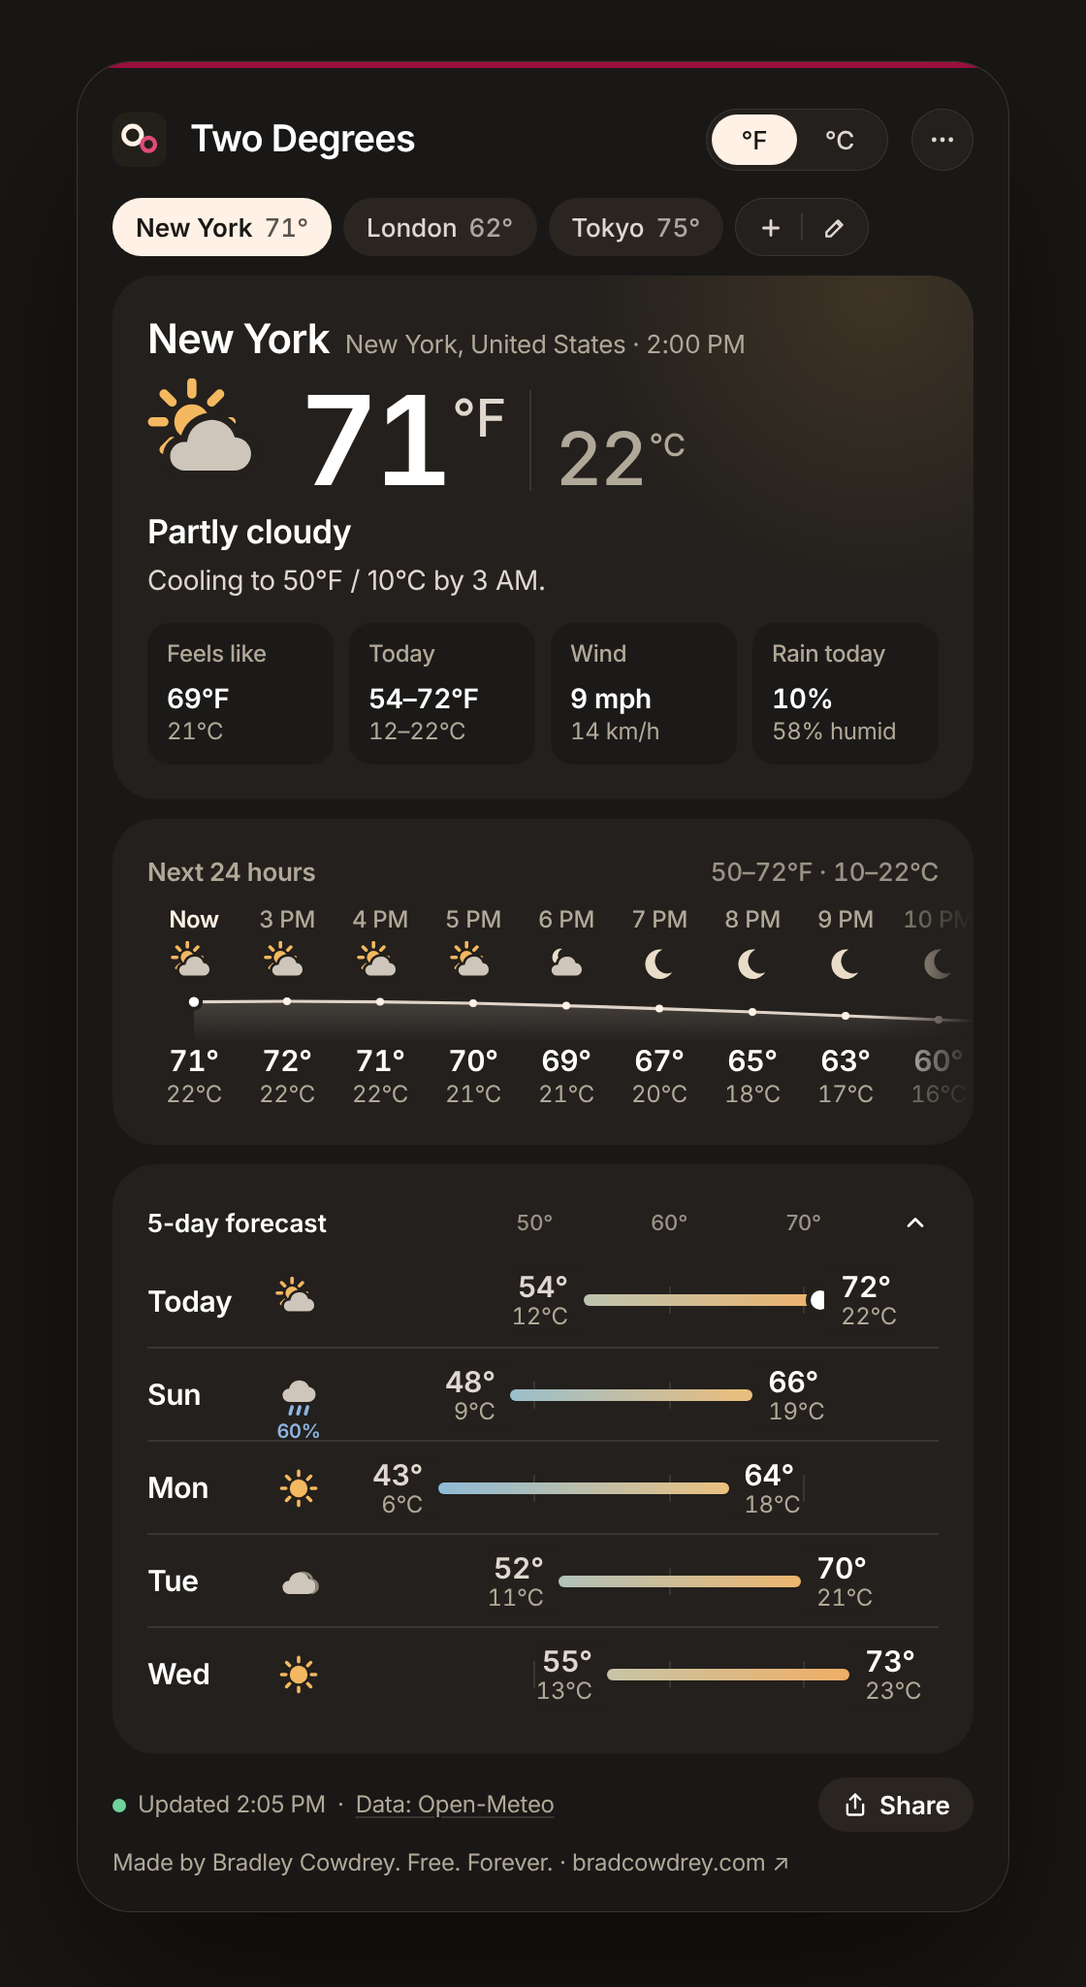
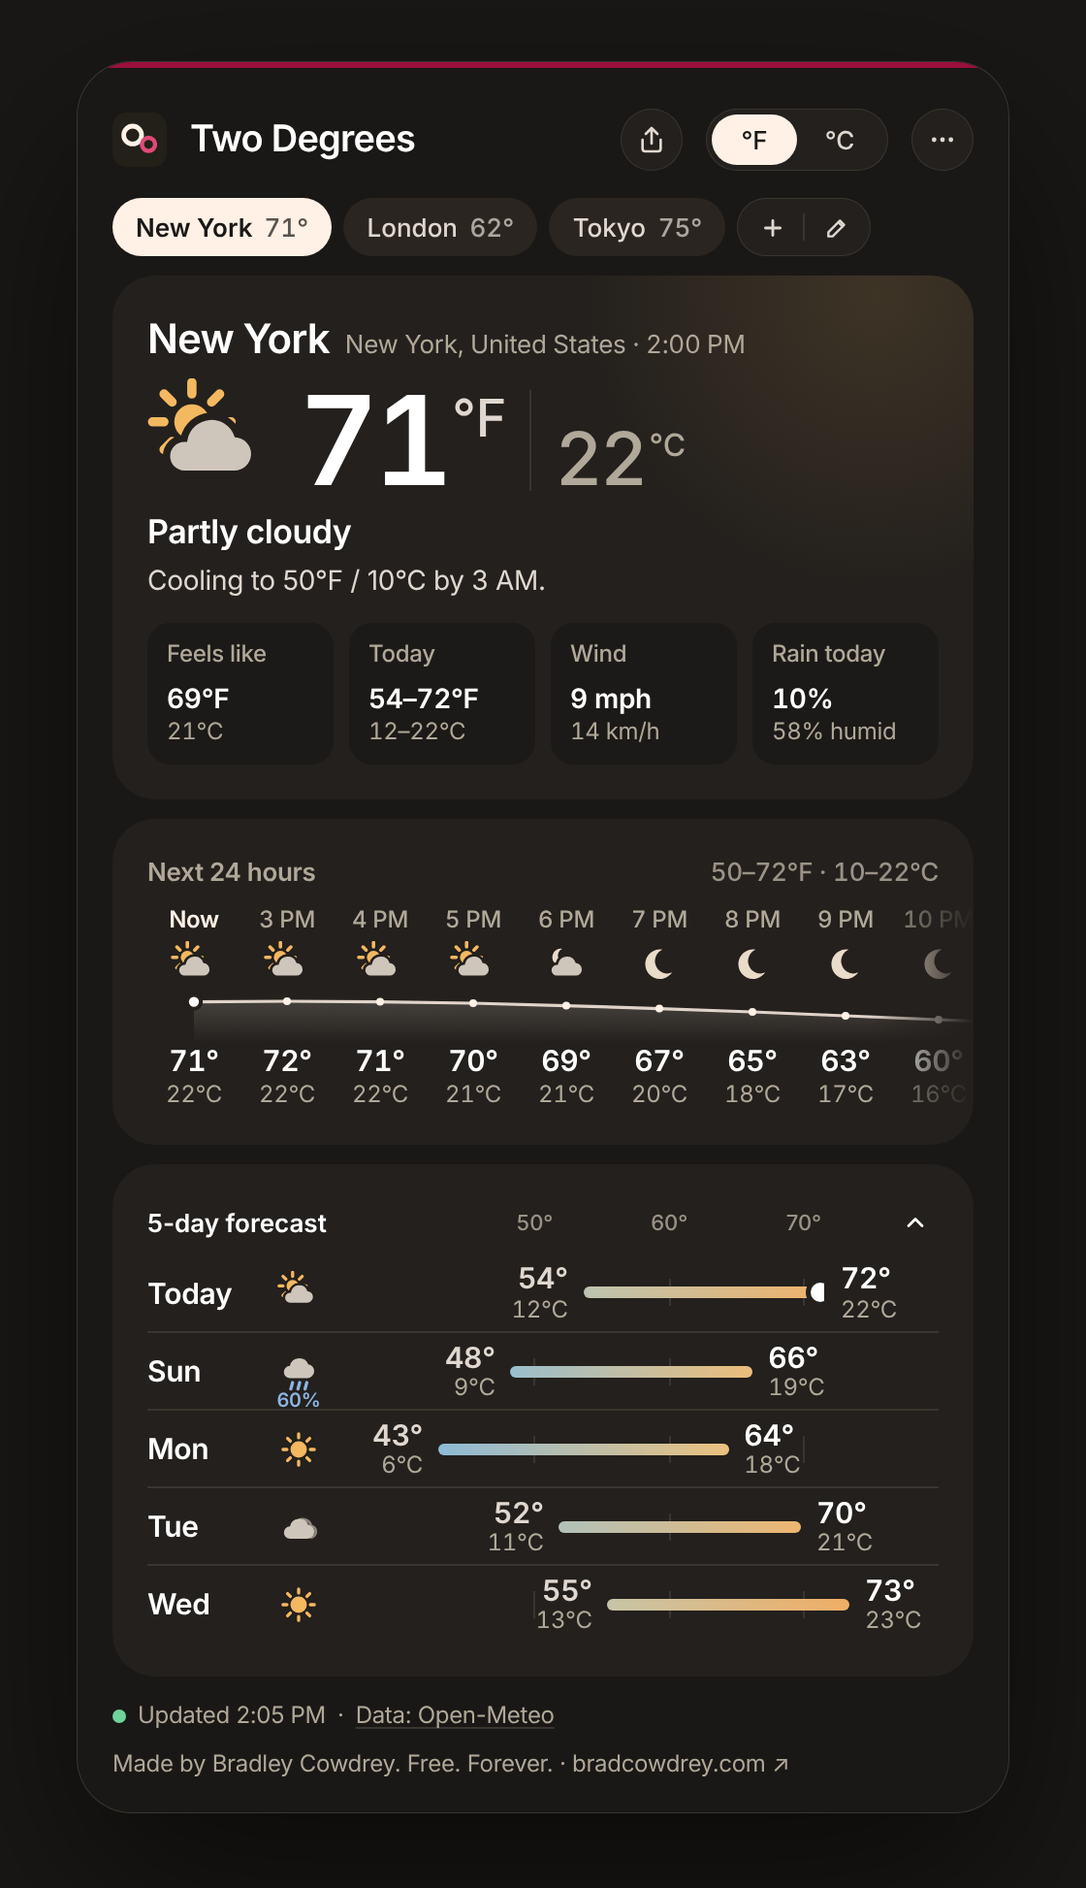
Share moves to the header's left; the open 5-day forecast is more compact
Share is now the first round button in the header (app and web), its menu dropping down from the
header's left edge. On phones the header tightens to fit it (and hides the title text below 360px).
Open 5-day rows go from 52 to 40pt tall. Web tests now cover a 320px phone, the header fitting and the
Share menu staying on screen.

Claude-Session: https://claude.ai/code/session_014XBPgVSosxkwyDptpY7qX5

diff --git a/docs/app.html b/docs/app.html
@@ -160,15 +160,15 @@
   /* Each day's low and high ride the ends of its bar, so a bar reads as that day's range on the shared scale.
      --lab is the room kept either side of the scale for a label at its far end. */
   .day { --lab: 46px; --pad: 8px; display: grid; grid-template-columns: 52px 32px minmax(0, 1fr); align-items: center; gap: 10px;
-    min-height: 48px; padding-block: 2px; border-top: 0.5px solid var(--border-strong); font-variant-numeric: tabular-nums; }
+    min-height: 40px; padding-block: 0; border-top: 0.5px solid var(--border-strong); font-variant-numeric: tabular-nums; }
   .day:first-child { border-top: 0; }
   .day .d { font-size: 15px; font-weight: 600; }
   .day .ic { position: relative; display: flex; justify-content: center; }
-  .day .ic svg { width: 24px; height: 24px; }
-  .day .p { position: absolute; top: 100%; margin-top: 1px; font-size: 10px; font-weight: 600; line-height: 1; color: var(--rain); }
-  .day .track { position: relative; height: 40px; }
+  .day .ic svg { width: 22px; height: 22px; }
+  .day .p { position: absolute; top: 100%; margin-top: -2px; font-size: 10px; font-weight: 600; line-height: 1; color: var(--rain); }
+  .day .track { position: relative; height: 36px; }
   .day .bar { position: absolute; left: var(--lab); right: var(--lab); top: 50%; margin-top: -3px; background: none; box-shadow: none; }   /* no empty track: the ticks carry the scale */
-  .day .lo, .day .hi { position: absolute; top: 50%; transform: translateY(-50%); display: flex; flex-direction: column; line-height: 1.15;
+  .day .lo, .day .hi { position: absolute; top: 50%; transform: translateY(-50%); display: flex; flex-direction: column; line-height: 1.1;
     background: var(--tile); white-space: nowrap; }   /* the tile colour hides the empty track behind the label */
   .day .lo { align-items: flex-end; padding-right: var(--pad); }
   .day .hi { align-items: flex-start; padding-left: var(--pad); }
@@ -202,7 +202,7 @@
   .status.live .dot { background: #6FD39C; }
   .status a { text-decoration: underline; text-decoration-color: var(--border-strong); text-underline-offset: 2px; }
   .status a:hover { color: var(--text); }
-  /* Footer: status and Share on one row, the credit on its own full-width line beneath. */
+  /* Footer: the status line, the credit on its own full-width line beneath. */
   .foot { display: flex; flex-direction: column; gap: 8px; padding-top: 2px; }
   .foot-row { display: flex; align-items: center; gap: 10px; }
   .foot-row .status { flex: 1; min-width: 0; }
@@ -215,6 +215,10 @@
   .pill svg { width: 14px; height: 14px; }
 
   .share-wrap { position: relative; }
+  /* Share sits in the header: its menu drops down from the header's left edge, so it stays inside the panel. */
+  .hdr { position: relative; }
+  .hdr .share-wrap { position: static; }
+  .menu.share { top: 40px; bottom: auto; right: auto; left: 0; max-width: 100%; }
   .menu { position: absolute; right: 0; bottom: 38px; z-index: 5; width: 270px; padding: 6px; border-radius: 12px;
     background: rgba(42,37,32,.96); backdrop-filter: blur(20px); -webkit-backdrop-filter: blur(20px);
     box-shadow: 0 0 0 0.5px var(--border-strong), 0 12px 32px rgba(0,0,0,.5); font-size: 13px; }
@@ -288,8 +292,12 @@
   @media (max-width: 460px) {
     .panel { padding: 25px 14px 16px; border-radius: 24px; }
     .tile { padding: 16px; }
-    .hdr { gap: 8px; }
-    .hdr h1 { font-size: 17px; }
+    /* The header fits a phone with Share in it: tighter gaps, no spacer element (its two gaps), narrower °F/°C. */
+    .hdr { gap: 6px; }
+    .hdr .sp { display: none; }
+    .hdr .share-wrap { margin-left: auto; }
+    .hdr .seg button { min-width: 36px; padding: 0 8px; }
+    .hdr h1 { font-size: 16px; }
     .cities { flex-wrap: nowrap; overflow-x: auto; scrollbar-width: none; margin: 0 -14px; padding: 2px 14px; }
     .cities::-webkit-scrollbar { display: none; }
     .chip-wrap, .chip { flex: none; }
@@ -310,6 +318,10 @@
     .stats { grid-template-columns: repeat(2, minmax(0, 1fr)); }
     .day { --lab: 42px; --pad: 6px; grid-template-columns: 44px 30px minmax(0, 1fr); gap: 8px; }
   }
+  /* The narrowest phones: the logo stands for the name (still read out). */
+  @media (max-width: 359px) {
+    .hdr h1 { position: absolute; width: 1px; height: 1px; overflow: hidden; clip-path: inset(50%); white-space: nowrap; }
+  }
   @media (prefers-reduced-motion: reduce) { * { transition: none !important; } }
 </style>
 
@@ -322,6 +334,12 @@
     </svg>
     <h1 id="appName">Two Degrees</h1>
     <span class="sp"></span>
+    <div class="share-wrap">
+      <button type="button" class="circle" id="shareBtn" aria-haspopup="menu" aria-expanded="false" title="Share Two Degrees" aria-label="Share Two Degrees">
+        <svg viewBox="0 0 24 24" fill="none" stroke="currentColor" stroke-width="2" stroke-linecap="round" stroke-linejoin="round" aria-hidden="true"><path d="M12 3v12M7.5 7.5 12 3l4.5 4.5"/><path d="M5 12v7a2 2 0 0 0 2 2h10a2 2 0 0 0 2-2v-7"/></svg>
+      </button>
+      <div class="menu share" id="shareMenu" role="menu" hidden></div>
+    </div>
     <div class="seg" role="group" aria-label="Larger unit">
       <button type="button" id="unitF" aria-pressed="true" title="Show °F large">°F</button>
       <button type="button" id="unitC" aria-pressed="false" title="Show °C large">°C</button>
@@ -367,13 +385,6 @@
   <footer class="foot">
     <div class="foot-row">
     <div class="status" id="status"><span class="dot"></span><span id="statusText" title="">Loading…</span><span aria-hidden="true">·</span><a href="https://open-meteo.com/" target="_blank" rel="noopener" title="Weather data by Open-Meteo.com">Data: Open-Meteo</a></div>
-    <div class="share-wrap">
-      <button type="button" class="pill" id="shareBtn" aria-haspopup="menu" aria-expanded="false" title="Share Two Degrees">
-        <svg viewBox="0 0 24 24" fill="none" stroke="currentColor" stroke-width="2" stroke-linecap="round" stroke-linejoin="round" aria-hidden="true"><path d="M12 3v12M7.5 7.5 12 3l4.5 4.5"/><path d="M5 12v7a2 2 0 0 0 2 2h10a2 2 0 0 0 2-2v-7"/></svg>
-        Share
-      </button>
-      <div class="menu" id="shareMenu" role="menu" hidden></div>
-    </div>
     </div>
     <a class="brand" href="https://bradcowdrey.com" target="_blank" rel="noopener">Made by Bradley Cowdrey. Free. Forever. · bradcowdrey.com ↗</a>
   </footer>

diff --git a/web/app.html b/web/app.html
@@ -159,15 +159,15 @@
   /* Each day's low and high ride the ends of its bar, so a bar reads as that day's range on the shared scale.
      --lab is the room kept either side of the scale for a label at its far end. */
   .day { --lab: 46px; --pad: 8px; display: grid; grid-template-columns: 52px 32px minmax(0, 1fr); align-items: center; gap: 10px;
-    min-height: 48px; padding-block: 2px; border-top: 0.5px solid var(--border-strong); font-variant-numeric: tabular-nums; }
+    min-height: 40px; padding-block: 0; border-top: 0.5px solid var(--border-strong); font-variant-numeric: tabular-nums; }
   .day:first-child { border-top: 0; }
   .day .d { font-size: 15px; font-weight: 600; }
   .day .ic { position: relative; display: flex; justify-content: center; }
-  .day .ic svg { width: 24px; height: 24px; }
-  .day .p { position: absolute; top: 100%; margin-top: 1px; font-size: 10px; font-weight: 600; line-height: 1; color: var(--rain); }
-  .day .track { position: relative; height: 40px; }
+  .day .ic svg { width: 22px; height: 22px; }
+  .day .p { position: absolute; top: 100%; margin-top: -2px; font-size: 10px; font-weight: 600; line-height: 1; color: var(--rain); }
+  .day .track { position: relative; height: 36px; }
   .day .bar { position: absolute; left: var(--lab); right: var(--lab); top: 50%; margin-top: -3px; background: none; box-shadow: none; }   /* no empty track: the ticks carry the scale */
-  .day .lo, .day .hi { position: absolute; top: 50%; transform: translateY(-50%); display: flex; flex-direction: column; line-height: 1.15;
+  .day .lo, .day .hi { position: absolute; top: 50%; transform: translateY(-50%); display: flex; flex-direction: column; line-height: 1.1;
     background: var(--tile); white-space: nowrap; }   /* the tile colour hides the empty track behind the label */
   .day .lo { align-items: flex-end; padding-right: var(--pad); }
   .day .hi { align-items: flex-start; padding-left: var(--pad); }
@@ -201,7 +201,7 @@
   .status.live .dot { background: #6FD39C; }
   .status a { text-decoration: underline; text-decoration-color: var(--border-strong); text-underline-offset: 2px; }
   .status a:hover { color: var(--text); }
-  /* Footer: status and Share on one row, the credit on its own full-width line beneath. */
+  /* Footer: the status line, the credit on its own full-width line beneath. */
   .foot { display: flex; flex-direction: column; gap: 8px; padding-top: 2px; }
   .foot-row { display: flex; align-items: center; gap: 10px; }
   .foot-row .status { flex: 1; min-width: 0; }
@@ -214,6 +214,10 @@
   .pill svg { width: 14px; height: 14px; }
 
   .share-wrap { position: relative; }
+  /* Share sits in the header: its menu drops down from the header's left edge, so it stays inside the panel. */
+  .hdr { position: relative; }
+  .hdr .share-wrap { position: static; }
+  .menu.share { top: 40px; bottom: auto; right: auto; left: 0; max-width: 100%; }
   .menu { position: absolute; right: 0; bottom: 38px; z-index: 5; width: 270px; padding: 6px; border-radius: 12px;
     background: rgba(42,37,32,.96); backdrop-filter: blur(20px); -webkit-backdrop-filter: blur(20px);
     box-shadow: 0 0 0 0.5px var(--border-strong), 0 12px 32px rgba(0,0,0,.5); font-size: 13px; }
@@ -287,8 +291,12 @@
   @media (max-width: 460px) {
     .panel { padding: 25px 14px 16px; border-radius: 24px; }
     .tile { padding: 16px; }
-    .hdr { gap: 8px; }
-    .hdr h1 { font-size: 17px; }
+    /* The header fits a phone with Share in it: tighter gaps, no spacer element (its two gaps), narrower °F/°C. */
+    .hdr { gap: 6px; }
+    .hdr .sp { display: none; }
+    .hdr .share-wrap { margin-left: auto; }
+    .hdr .seg button { min-width: 36px; padding: 0 8px; }
+    .hdr h1 { font-size: 16px; }
     .cities { flex-wrap: nowrap; overflow-x: auto; scrollbar-width: none; margin: 0 -14px; padding: 2px 14px; }
     .cities::-webkit-scrollbar { display: none; }
     .chip-wrap, .chip { flex: none; }
@@ -309,6 +317,10 @@
     .stats { grid-template-columns: repeat(2, minmax(0, 1fr)); }
     .day { --lab: 42px; --pad: 6px; grid-template-columns: 44px 30px minmax(0, 1fr); gap: 8px; }
   }
+  /* The narrowest phones: the logo stands for the name (still read out). */
+  @media (max-width: 359px) {
+    .hdr h1 { position: absolute; width: 1px; height: 1px; overflow: hidden; clip-path: inset(50%); white-space: nowrap; }
+  }
   @media (prefers-reduced-motion: reduce) { * { transition: none !important; } }
 </style>
 
@@ -321,6 +333,12 @@
     </svg>
     <h1 id="appName">Two Degrees</h1>
     <span class="sp"></span>
+    <div class="share-wrap">
+      <button type="button" class="circle" id="shareBtn" aria-haspopup="menu" aria-expanded="false" title="Share Two Degrees" aria-label="Share Two Degrees">
+        <svg viewBox="0 0 24 24" fill="none" stroke="currentColor" stroke-width="2" stroke-linecap="round" stroke-linejoin="round" aria-hidden="true"><path d="M12 3v12M7.5 7.5 12 3l4.5 4.5"/><path d="M5 12v7a2 2 0 0 0 2 2h10a2 2 0 0 0 2-2v-7"/></svg>
+      </button>
+      <div class="menu share" id="shareMenu" role="menu" hidden></div>
+    </div>
     <div class="seg" role="group" aria-label="Larger unit">
       <button type="button" id="unitF" aria-pressed="true" title="Show °F large">°F</button>
       <button type="button" id="unitC" aria-pressed="false" title="Show °C large">°C</button>
@@ -366,13 +384,6 @@
   <footer class="foot">
     <div class="foot-row">
     <div class="status" id="status"><span class="dot"></span><span id="statusText" title="">Loading…</span><span aria-hidden="true">·</span><a href="https://open-meteo.com/" target="_blank" rel="noopener" title="Weather data by Open-Meteo.com">Data: Open-Meteo</a></div>
-    <div class="share-wrap">
-      <button type="button" class="pill" id="shareBtn" aria-haspopup="menu" aria-expanded="false" title="Share Two Degrees">
-        <svg viewBox="0 0 24 24" fill="none" stroke="currentColor" stroke-width="2" stroke-linecap="round" stroke-linejoin="round" aria-hidden="true"><path d="M12 3v12M7.5 7.5 12 3l4.5 4.5"/><path d="M5 12v7a2 2 0 0 0 2 2h10a2 2 0 0 0 2-2v-7"/></svg>
-        Share
-      </button>
-      <div class="menu" id="shareMenu" role="menu" hidden></div>
-    </div>
     </div>
     <a class="brand" href="https://bradcowdrey.com" target="_blank" rel="noopener">Made by Bradley Cowdrey. Free. Forever. · bradcowdrey.com ↗</a>
   </footer>

diff --git a/Sources/TwoDegrees/Views/WeatherPanel.swift b/Sources/TwoDegrees/Views/WeatherPanel.swift
@@ -161,15 +161,18 @@ private struct WeatherPanelContent: View {
                 .fixedSize()
                 .layoutPriority(1)
             Spacer(minLength: ui.s)
-            UnitToggle()
-            HeaderCircleButton(symbol: "arrow.clockwise", help: "Refresh") {
-                Task { await store.refresh() }
+            HStack(spacing: ui.s) {
+                shareButton
+                UnitToggle()
+                HeaderCircleButton(symbol: "arrow.clockwise", help: "Refresh") {
+                    Task { await store.refresh() }
+                }
+                .disabled(store.loading)
+                if compact {
+                    HeaderCircleButton(symbol: "macwindow", help: "Open as Window") { tearOff() }
+                }
+                MoreMenu(compact: compact, closeHost: { host.window?.close() })
             }
-            .disabled(store.loading)
-            if compact {
-                HeaderCircleButton(symbol: "macwindow", help: "Open as Window") { tearOff() }
-            }
-            MoreMenu(compact: compact, closeHost: { host.window?.close() })
         }
     }
 
@@ -212,14 +215,11 @@ private struct WeatherPanelContent: View {
         host.window?.close()             // the panel goes away in the same beat
     }
 
-    /// Status and Share on one row, the credit on its own full-width line beneath.
+    /// The status line, the credit on its own full-width line beneath.
     private var footer: some View {
         VStack(alignment: .leading, spacing: ui.s) {
-            HStack(spacing: ui.pt(10)) {
-                StatusLine()
-                Spacer(minLength: ui.s)
-                shareButton
-            }
+            StatusLine()
+                .frame(maxWidth: .infinity, alignment: .leading)
             Link(destination: Brand.website) {
                 Text("Made by \(Brand.author). Free. Forever. · \(Brand.websiteHost) ↗")
                     .multilineTextAlignment(.leading)
@@ -237,10 +237,11 @@ private struct WeatherPanelContent: View {
             subject: Text("Two Degrees for Mac"),
             message: Text(Brand.shareMessage)
         ) {
-            Label("Share", systemImage: "square.and.arrow.up")
+            HeaderCircle(symbol: "square.and.arrow.up")
         }
-        .buttonStyle(PillButtonStyle(small: true))
+        .buttonStyle(.plain)
         .help("Share Two Degrees")
+        .accessibilityLabel("Share Two Degrees")
     }
 }
 
@@ -465,29 +466,38 @@ private struct MoreMenu: View {
 
 /// Outlined circle button matching the ⋯ menu, for header actions.
 private struct HeaderCircleButton: View {
-    @Environment(\.metrics) private var ui
-    @Environment(\.isEnabled) private var isEnabled
     let symbol: String
     let help: String
     let action: () -> Void
-    @State private var hovering = false
 
     var body: some View {
         Button(action: action) {
-            Image(systemName: symbol)
-                .font(ui.font(13, .semibold))
-                .foregroundStyle(hovering && isEnabled ? Palette.textPrimary : Palette.textSecondary)
-                .frame(width: ui.pt(32), height: ui.pt(32))
-                .background(Circle().fill(hovering && isEnabled ? Palette.border : Palette.raisedTile))
-                .overlay(Circle().strokeBorder(Palette.borderStrong, lineWidth: 0.5))
-                .contentShape(Circle())
-                .opacity(isEnabled ? 1 : 0.5)
+            HeaderCircle(symbol: symbol)
         }
         .buttonStyle(.plain)
-        .onHover { hovering = $0 }
-        .animation(.easeOut(duration: 0.15), value: hovering)
         .help(help)
         .accessibilityLabel(help)
+    }
+}
+
+/// The round header control's look, shared by its buttons and the Share link.
+private struct HeaderCircle: View {
+    @Environment(\.metrics) private var ui
+    @Environment(\.isEnabled) private var isEnabled
+    let symbol: String
+    @State private var hovering = false
+
+    var body: some View {
+        Image(systemName: symbol)
+            .font(ui.font(13, .semibold))
+            .foregroundStyle(hovering && isEnabled ? Palette.textPrimary : Palette.textSecondary)
+            .frame(width: ui.pt(32), height: ui.pt(32))
+            .background(Circle().fill(hovering && isEnabled ? Palette.border : Palette.raisedTile))
+            .overlay(Circle().strokeBorder(Palette.borderStrong, lineWidth: 0.5))
+            .contentShape(Circle())
+            .opacity(isEnabled ? 1 : 0.5)
+            .onHover { hovering = $0 }
+            .animation(.easeOut(duration: 0.15), value: hovering)
     }
 }
 
@@ -1065,7 +1075,7 @@ private struct DayRow: View {
                             .font(ui.font(10, .semibold))
                             .foregroundStyle(Palette.rain)
                             .fixedSize()
-                            .offset(y: ui.pt(12))
+                            .offset(y: ui.pt(10))
                     }
                 }
             RangeBar(low: day.low, high: day.high, scaleLow: low, scaleHigh: high, ticks: ticks, now: now) {
@@ -1079,11 +1089,10 @@ private struct DayRow: View {
                     Text("\(other.value(day.high))\(other.symbol)").font(ui.font(12)).foregroundStyle(Palette.textMuted)
                 }
             }
-            .frame(height: ui.pt(40))
+            .frame(height: ui.pt(36))
         }
         .monospacedDigit()
-        .frame(minHeight: ui.pt(48))
-        .padding(.vertical, ui.pt(2))
+        .frame(minHeight: ui.pt(40))   // compact rows: the two-line labels fill the height
         .accessibilityElement(children: .ignore)
         .accessibilityLabel("\(name): \(Condition.name(day.code)). Low \(Speech.temperature(day.low)). High \(Speech.temperature(day.high)).\(day.rainChance >= 20 ? " \(day.rainChance) percent chance of rain." : "")")
     }

diff --git a/tests/web.test.js b/tests/web.test.js
@@ -9,7 +9,7 @@ try { playwright = require('playwright'); } catch { playwright = require(path.jo
 
 const PAGE = 'file://' + path.resolve(__dirname, '../docs/app.html');
 const SHOTS = process.argv[2];
-const VIEWPORTS = [['phone', 390, 844], ['tablet', 768, 1024], ['desktop', 1280, 900]];
+const VIEWPORTS = [['small phone', 320, 640], ['phone', 390, 844], ['tablet', 768, 1024], ['desktop', 1280, 900]];
 const SIZES = ['extraSmall', 'small', 'medium', 'large', 'extraLarge'];
 const FOOTER = 'Made by Bradley Cowdrey. Free. Forever. · bradcowdrey.com ↗';
 
@@ -39,7 +39,7 @@ async function layoutProblems(page) {
     }
     for (const sel of ['.hdr h1', '.place h2', '.stat .v', '.stat .s', '.day .d', '.foot .brand', '#statusText', '.chip']) {
       for (const e of document.querySelectorAll(sel)) {
-        if (e.offsetParent === null) continue;
+        if (e.offsetParent === null || getComputedStyle(e).clipPath === 'inset(50%)') continue;   // hidden, or visually hidden on purpose
         if (e.scrollWidth > e.clientWidth + 1 && getComputedStyle(e).textOverflow !== 'ellipsis') problems.push(`${sel} clipped ("${e.textContent.trim().slice(0, 30)}")`);
       }
     }
@@ -143,9 +143,12 @@ async function setSize(page, size) {
     check((await page.$$('.chip-x')).length === 0, t('the last city cannot be removed'));
     check(await page.getAttribute('#editBtn', 'aria-pressed') === 'false', t('Edit turns itself off at one city'));
 
-    // Share menu.
+    // Share menu, from the header's left.
+    check(await page.$eval('.hdr', (h) => h.contains(document.querySelector('#shareBtn')) && h.scrollWidth <= h.clientWidth), t('Share is in the header, and the header fits'));
     await page.click('#shareBtn');
     check(await page.isVisible('#shareMenu') && (await page.$$('#shareMenu [data-share]')).length >= 3, t('Share opens its menu'));
+    const shareBox = await page.locator('#shareMenu').boundingBox();
+    check(shareBox.x >= 0 && shareBox.x + shareBox.width <= w, t(`the Share menu stays on screen (${Math.round(shareBox.x)}–${Math.round(shareBox.x + shareBox.width)} of ${w})`));
     await page.click('[data-share="web"]');
     await page.waitForSelector('#toast:not([hidden])');
     const copied = await page.evaluate(() => navigator.clipboard.readText()).catch(() => '');
